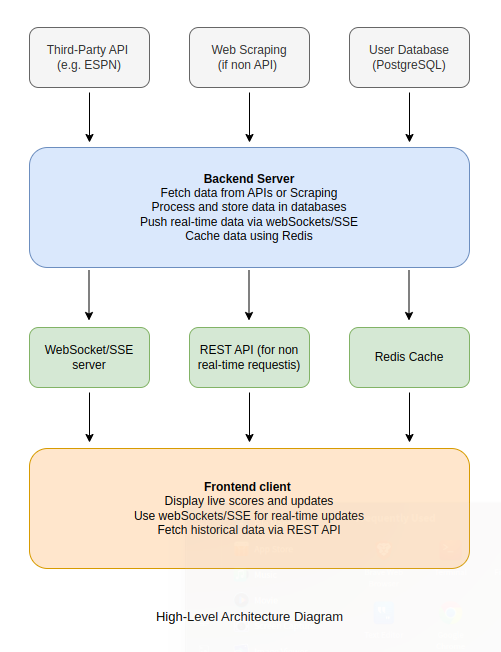
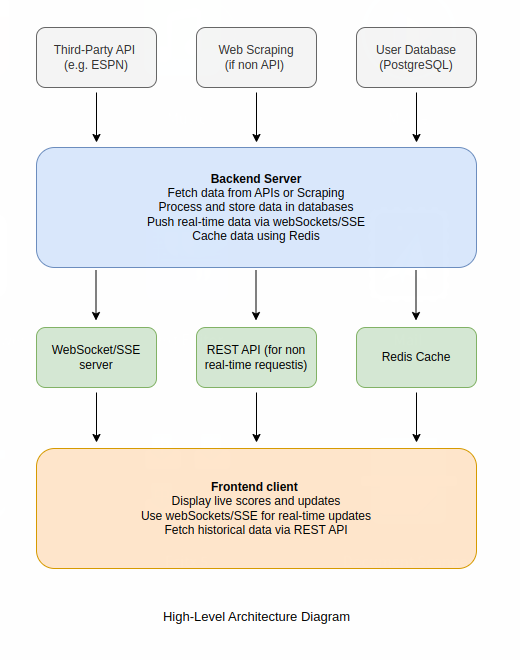
change the image

diff --git a/_posts/2025-02-07-website-realtime-updates-data.md b/_posts/2025-02-07-website-realtime-updates-data.md
@@ -67,37 +67,7 @@ The backend handles data processing, storage, and real-time updates.
 
 ### **High-Level Architecture Diagram**
 
-```
-+-------------------+       +-------------------+       +-------------------+
-|   Third-Party API |       |   Web Scraping    |       |   User Database   |
-|   (e.g., ESPN)    |       |   (if no API)     |       |   (PostgreSQL)    |
-+-------------------+       +-------------------+       +-------------------+
-          |                          |                          |
-          v                          v                          v
-+---------------------------------------------------------------+
-|                         Backend Server                        |
-|  - Fetch data from APIs or scraping                           |
-|  - Process and store data in databases                        |
-|  - Push real-time updates via WebSockets/SSE                  |
-|  - Cache data using Redis                                     |
-+---------------------------------------------------------------+
-          |                          |                          |
-          v                          v                          v
-+-------------------+       +-------------------+       +-------------------+
-|   WebSocket/SSE   |       |   REST API        |       |   Redis Cache     |
-|   Server          |       |   (for non-real-  |       |                   |
-|                   |       |   time requests)  |       |                   |
-+-------------------+       +-------------------+       +-------------------+
-          |                          |                          |
-          v                          v                          v
-+---------------------------------------------------------------+
-|                         Frontend Client                       |
-|  - Display live scores and updates                            |
-|  - Use WebSocket/SSE for real-time updates                    |
-|  - Fetch historical data via REST API                         |
-+---------------------------------------------------------------+
-```
-
+  ![gh-pages-sources](/commons/HL-Arch-Diagram.png){: width="501" height="652" }
 ---
 
 ### **Technologies and Tools**
@@ -217,8 +187,4 @@ This architecture ensures **real-time updates**, **scalability**, and a **great 
 
 ## Learn More
 
-
-  ![gh-pages-sources](/2019-08-09-getting-started/gh-pages-sources.png){: width="1580" height="250" }
-
-  ![gh-pages-sources](/commons/HL-Arch-Diagram.png){: width="501" height="652" }
     
